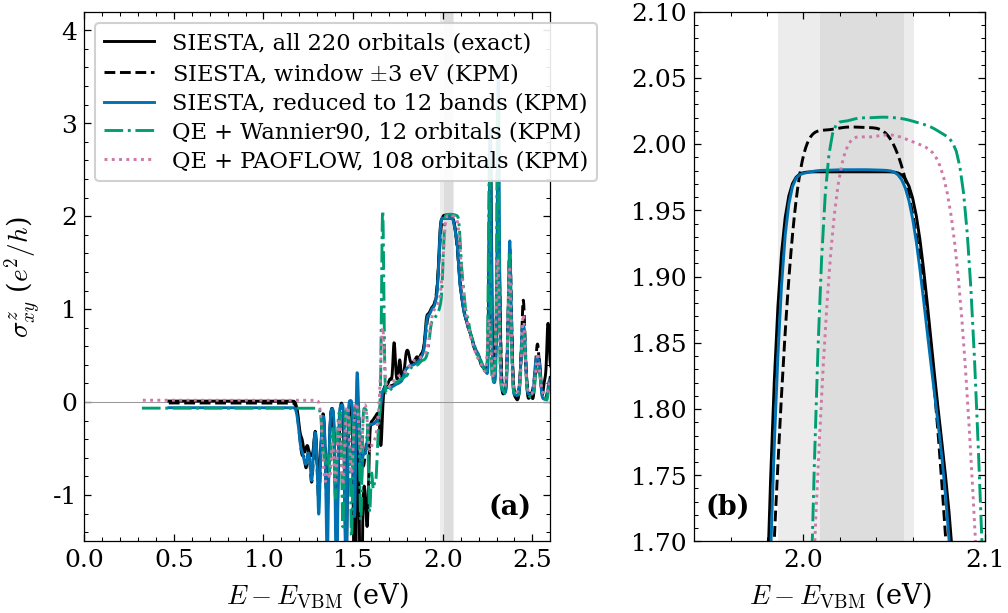
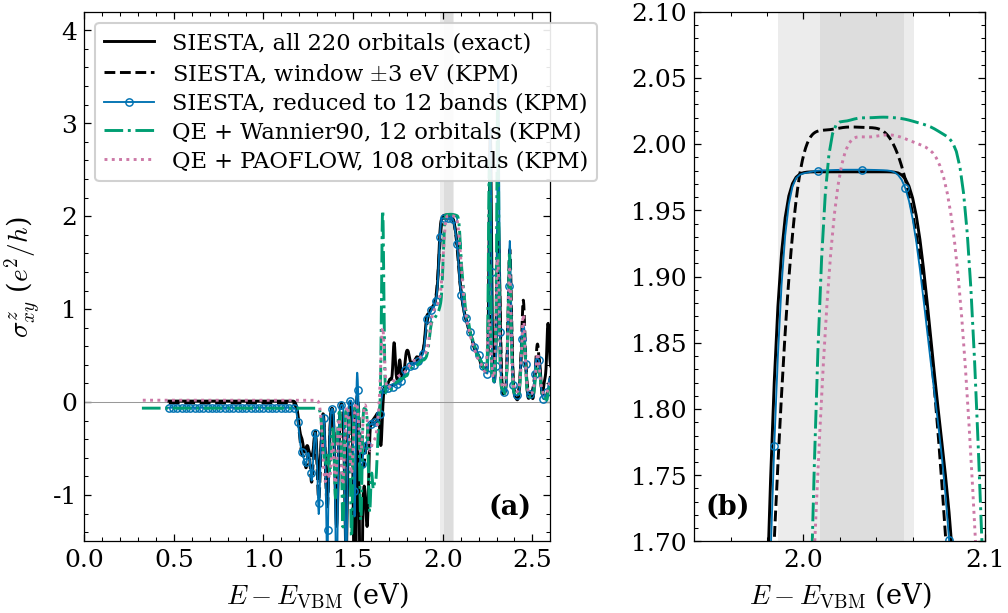
Examples 21: review fixes (reduced curve with markers, bands per k instead of a speed-up, runtime labels)
Claude-Session: https://claude.ai/code/session_01HQCNXvhvRGsiz19SM8ZrLB

diff --git a/examples/21_pdse2_downfolding/plot.py b/examples/21_pdse2_downfolding/plot.py
@@ -44,6 +44,9 @@ def main():
     for path, origin, label, i, ls in CURVES:
         E, s = np.loadtxt(path).T
         style = dict(prl.trace(i), linestyle=ls)
+        if "reduced12" in path:
+            # Thin line with circles: apart from the full SIESTA curve it overlaps.
+            style.update(linewidth=0.9, marker="o", markevery=12, markersize=3.5, markerfacecolor="none")
         ax1.plot(E - VBM[origin], s, label=label, **style)
         ax2.plot(E - VBM[origin], s, **style)
     ax1.set_xlim(0.0, 2.6)

diff --git a/examples/21_pdse2_downfolding/PAGE.md b/examples/21_pdse2_downfolding/PAGE.md
@@ -4,9 +4,8 @@ A DFT basis carries many more orbitals than transport needs. LSQuant can
 reduce a SIESTA Hamiltonian to the bands near the Fermi level, and it reads
 the reduced models that Wannier90 and PAOFLOW build from Quantum ESPRESSO.
 For a pentagonal PdSe₂ monolayer, the 12-orbital models give the quantum spin
-Hall plateau of the full 220-orbital calculation within 2 %, and the reduced
-SIESTA model computes it about 14 times faster than an energy window on all
-220 orbitals.
+Hall plateau of the full 220-orbital calculation within 2 %, with 12 bands per
+k point instead of 220 in the expansion.
 
 ![Spin Hall conductivity of PdSe2 from five models of different size](fig_downfolding.png)
 
@@ -14,26 +13,27 @@ SIESTA model computes it about 14 times faster than an energy window on all
 valence-band maximum, in e²/h with the Pauli σ_z. Black solid line: SIESTA
 with all 220 spinor orbitals, exact diagonalisation. Black dashed line: the
 same SIESTA Hamiltonian with the states outside ±3 eV of E_F moved to the
-window edges. Blue solid line: SIESTA reduced to its 12 isolated bands around
-E_F. Green dash-dotted line: Quantum ESPRESSO with a 12-orbital Wannier90
-model. Pink dotted line: Quantum ESPRESSO with a 108-orbital PAOFLOW model.
-All but the first are KPM curves: 24 × 24 k mesh, M = 1024 moments, Jackson
-kernel, 6 meV broadening. (a) The full energy range. (b) The quantum spin Hall
-gap; the grey bands mark the gap of SIESTA (1.99–2.06 eV) and of Quantum
-ESPRESSO (2.01–2.06 eV).
+window edges. Thin blue line with circles: SIESTA reduced to its 12 isolated
+bands around E_F. Green dash-dotted line: Quantum ESPRESSO with a 12-orbital
+Wannier90 model. Pink dotted line: Quantum ESPRESSO with a 108-orbital
+PAOFLOW model. All but the first are KPM curves: 24 × 24 k mesh,
+M = 1024 moments, Jackson kernel, 6 meV broadening. (a) The full energy
+range. (b) The quantum spin Hall gap; dark grey: the gap of Quantum ESPRESSO,
+2.01–2.06 eV; light grey: the gap of SIESTA, 1.99–2.06 eV.
 
-| Model | Orbitals per cell | Plateau (e²/h) | σᶻ_xy in the trivial gap (e²/h) | Moments |
-|---|---|---|---|---|
-| SIESTA, all states (exact) | 220 | 1.98 | +0.01 | — |
-| SIESTA, window ±3 eV | 220 | 2.01 | −0.01 | 3 h 10 min |
-| SIESTA, reduced to 12 bands | 12 | 1.98 | −0.06 | 14 min |
-| QE + Wannier90 | 12 | 2.02 | −0.07 | 2.5 min |
-| QE + PAOFLOW | 108 | 2.00 | +0.02 | 2 h 30 min |
+| Model | Bands per k point | Plateau (e²/h) | σᶻ_xy in the trivial gap (e²/h) |
+|---|---|---|---|
+| SIESTA, all states (exact) | 220 | 1.98 | +0.01 |
+| SIESTA, window ±3 eV | 220 | 2.01 | −0.01 |
+| SIESTA, reduced to 12 bands | 12 | 1.98 | −0.06 |
+| QE + Wannier90 | 12 | 2.02 | −0.07 |
+| QE + PAOFLOW | 108 | 2.00 | +0.02 |
 
-<!-- Plateau: mean over the central half of each topological gap; trivial gap: E - E_VBM = 0.5 eV. Times: AMD EPYC 9374F, 16 threads (SIESTA) and 8 threads (Wannier90, PAOFLOW). The reduced SIESTA run also spends 58 min once on the orbital dipoles of the covariant velocity. Reduced SIESTA, exact on the same mesh: plateau 1.964, trivial gap -0.061. -->
+<!-- Plateau: mean over the central half of each topological gap; trivial gap: E - E_VBM = 0.5 eV. Reduced SIESTA, exact on the same 24x24 mesh: plateau 1.964, trivial gap -0.061, the same as its KPM value, so the trivial-gap shift comes from the model and not from KPM. -->
 
-In the quantum spin Hall gap all models agree. In the trivial gap the two
-12-band models give −0.06 e²/h instead of +0.01: the bands they leave out add
-a small Fermi-sea contribution there.
+In the quantum spin Hall gap all models agree within 2 %. In the trivial gap
+the two 12-band models give −0.06 e²/h instead of +0.01: they leave out the
+bands outside their window, which add about +0.07 e²/h to the Fermi-sea sum
+there.
 
 **Set it up and run it:** [Example 21 README](README.md).

diff --git a/examples/21_pdse2_downfolding/README.md b/examples/21_pdse2_downfolding/README.md
@@ -36,17 +36,20 @@ The three runs differ only in the `projection` section:
 | `run_siesta_projected.json` | `{"kind": "shift", "window": [-3, 3]}` | 220 orbitals; states outside the window moved to its edges |
 | `run_siesta_reduced12.json` | `{"kind": "orthogonal", "window": [-1.77, 3.17]}` | 12 orthonormal orbitals spanning the 12 bands inside the window |
 
+Window energies are in eV from E_F, the energy origin of the SIESTA files.
+
 The `orthogonal` projection needs a window that holds the same number of
-bands at every k point. For PdSe₂ the 12 bands from −1.75 to 2.05 eV are
-separated from the bands below by 56 meV and from the bands above by 2.2 eV;
-the window edges lie in those two gaps. See
+bands at every k point. For PdSe₂ the 12 bands from −1.75 to 2.05 eV (from
+E_F) are separated from the bands below by 56 meV and from the bands above by
+2.2 eV; the window edges lie in those two gaps. See
 [`projection`](../../docs/reference/run-file.md#projection) in the run-file
 reference.
 
 ## Step 2: the Wannier90 and PAOFLOW models
 
-Run steps 1, 2 and 4 of [example 20](../20_pdse2_spin_hall_routes/README.md)
-for `run_wannier_kpm.json` and `run_paoflow_kpm.json`.
+Run steps 1 and 2 of [example 20](../20_pdse2_spin_hall_routes/README.md),
+then the `run_wannier_kpm.json` and `run_paoflow_kpm.json` lines of its
+step 4.
 
 ## Step 3: the figure
 
@@ -58,14 +61,19 @@ It writes `fig_downfolding.png`.
 
 ## Runtime
 
-On an AMD EPYC 9374F:
+Total wall time of each run on an AMD EPYC 9374F:
 
-| Run | Wall time |
-|---|---|
-| `run_siesta_reduced12.json`, 16 threads | 15 min, plus 58 min once for the orbital dipoles of the covariant velocity |
-| `run_siesta_projected.json`, 16 threads | 3 h 10 min |
-| `run_wannier_kpm.json`, 8 threads | 5 min |
-| `run_paoflow_kpm.json`, 8 threads | 2 h 30 min |
+| Run | Threads | Wall time |
+|---|---|---|
+| `run_siesta_reduced12.json` | 16 | 1 h 17 min, of which 58 min for the orbital dipoles of the covariant velocity |
+| `run_siesta_projected.json` | 16 | 3 h 10 min |
+| `run_wannier_kpm.json` | 8 | 5 min |
+| `run_paoflow_kpm.json` | 8 | 2 h 30 min |
+
+The orbital dipoles are cached in a `.lsquant-cache` directory after the first SIESTA run
+with the covariant velocity, and later runs on the same SIESTA files reuse
+them. The cost of the Chebyshev expansion grows with the number of bands per
+k point: 220 for the window run, 12 for the reduced model.
 
 ## Files
 
